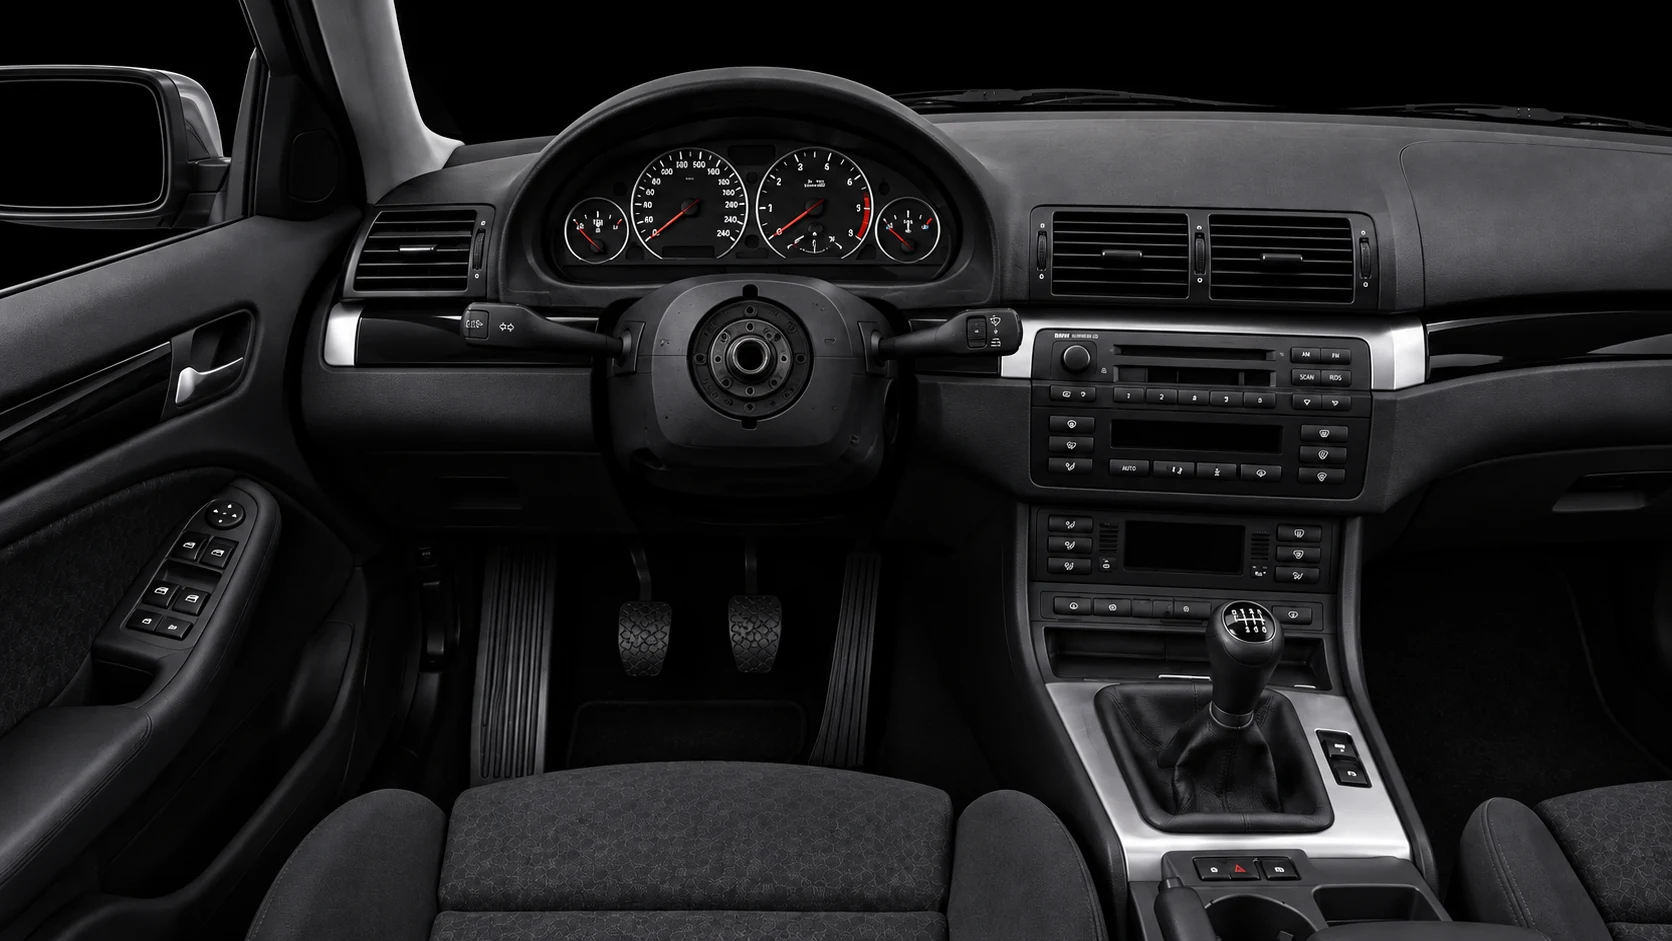
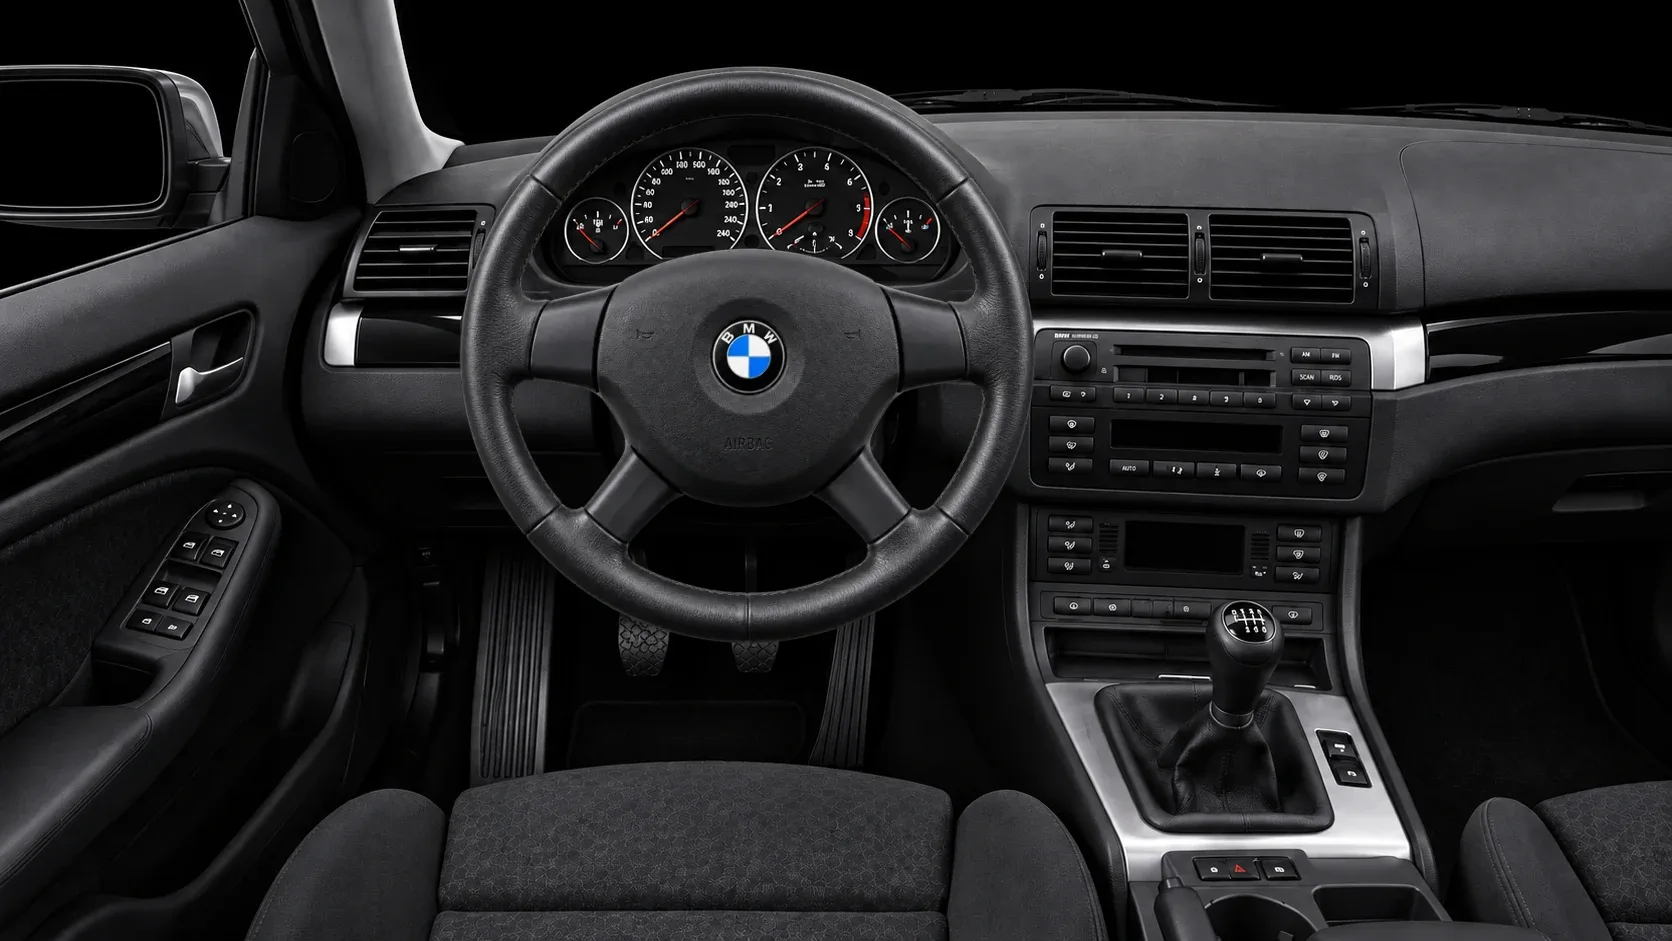
BL-124: the Infotainment picture gets E46BUILD's standard steering wheel (cockpit + standard cut-out at the T-170 geometry, like step 05); copy approved (PO 2026-11-09)
Claude-Session: https://claude.ai/code/session_017FdUL7QsvxXijSWYHcSykp

Changed region(s): [[0.2488, 0.0616, 0.622, 0.678]]

diff --git a/lib/i18n.ts b/lib/i18n.ts
@@ -39,7 +39,7 @@ const en = {
       { key: "bumpers", label: "Bumpers", line: "Standard, M package or M3 bumpers, front and rear, on your body style.", img: "/images/closer-look/e46-bumper-look-front-sedan-touring-m-package.webp", alt: "E46 sedan with the M package front bumper" },
       { key: "seats", label: "Seats", line: "Basic, sport or M3 seats, for your E46.", img: "/images/closer-look/e46-seat-stage-interior-leather.webp", alt: "E46 interior with black leather sport seats" },
       { key: "steering", label: "Steering wheels", line: "Standard, sport, M Sport or M3 steering wheels for your E46.", img: "/images/closer-look/e46-steering-stage-cockpit-m3.webp", alt: "E46 cockpit with an M3 steering wheel" },
-      // BL-124 (PO 2026-11-09): E46BUILD's step 06 (T-278) and its own cockpit stage, until the PO's dash pictures arrive.
+      // BL-124 (PO 2026-11-09): E46BUILD's step 06 (T-278); its cockpit stage with the standard wheel, until the PO's dash pictures arrive.
       { key: "infotainment", label: "Infotainment", line: "BMW factory radio and navigation, or a CarPlay screen made for the E46.", img: "/images/closer-look/e46-infotainment-stage-cockpit.webp", alt: "E46 cockpit with the BMW radio and climate controls in the centre console" },
     ],
     pick: "Parts in E46BUILD", // accessible name of the category tab list

diff --git a/public/images/README.md b/public/images/README.md
@@ -18,15 +18,15 @@ One line per file. Article images live under `public/blog/<slug>/` with their cr
 `closer-look/` (BL-083, "Take a closer look"): E46BUILD pictures (and one PO render), from e46build master (a6c8a8a3; steering
 from 2102a8d3) `apps/web/public/images/…`. PO rule (2026-10-27): every picture shows the part mounted on the car, never on
 its own. All are AI images generated by the PO with ChatGPT (signed C2PA manifests; provenance in e46build
-`docs/research/…`); shown without an "AI illustration" label (PO 2026-10-27). Four are byte-identical copies of E46BUILD
-files (Infotainment since BL-124); the headlight is the PO's own render (converted) and the steering picture a composite (below).
+`docs/research/…`); shown without an "AI illustration" label (PO 2026-10-27). Three are byte-identical copies of E46BUILD
+files; the headlight is the PO's own render (converted) and the steering and infotainment pictures composites (below).
 
 - `closer-look/e46-headlight-look-bi-xenon-late-hires.webp` (1536×1024): PO's AI render, 2026-10-27 (C2PA, trainedAlgorithmicMedia): a post-facelift silver E46, bi-xenon lit with angel eyes, on the car. Source: e46 `docs/images/e46_headlights_shape/Post_High_Res.png` (1536×1024 PNG, SHA-256 a814f65d…), converted to WebP (quality 88, same size, metadata not copied) by `scripts/make-closer-look-headlight.mjs`, which checks the source hash. Replaces the 425 px E46BUILD look (BL-083.3).
 - `closer-look/e46-bumper-look-front-sedan-touring-m-package.webp`: from `categories/bumper/e46-bumper-look-front-sedan-touring-m-package.webp` (960×640). AI illustration by the PO, 2026-10-02 (S2.3). E46BUILD labels it "AI illustration".
 - `closer-look/e46-wheel-stage-side.webp`: from `wheels/e46-wheel-stage-side.webp` (1200×675). AI image by the PO (dark original 2026-10-06, D-002/D-010). E46BUILD's one wheel stage for every body; no label on the stage.
 - `closer-look/e46-seat-stage-interior-leather.webp`: from `seats/e46-seat-stage-interior.webp` (1200×675) at e46build origin/master 8a3bea99 (SHA-256 5643ea34…), byte-identical: E46BUILD's seat stage with black leather Sport seats since T-247.1 (BL-112, PO 2026-11-04: "seats should be leather"; it was the 2026-10-05 cloth picture, D-002). AI image by the PO; no label. New file name so no cache keeps the cloth picture.
 - `closer-look/e46-steering-stage-cockpit-m3.webp` (1672×941): a **composite** of two e46build sources, both AI renders by the PO: the empty cockpit stage `steering/e46-steering-stage-cockpit.webp` (D-002/T-170) and the M3 cut-out `steering/e46-steering-cutout-m3.webp` (T-125; BL-112, PO 2026-11-04: "the wheel should be an M wheel"; it was the M Sport wheel), laid at E46BUILD's own T-170 overlay geometry (rim centre on the column hub at 747, 355 px; rim 575.45 px; cut-out 587×587 px at 454, 62). Made by `scripts/make-closer-look-steering.mjs`, which reads both inputs from e46build (here origin/master 8a3bea99) and checks their SHA-256.
-- `closer-look/e46-infotainment-stage-cockpit.webp` (1672×941): E46BUILD's own cockpit stage `steering/e46-steering-stage-cockpit.webp` (AI render by the PO, the empty cockpit of D-002/T-170), byte-identical copy from e46build origin/master f10e548c (SHA-256 49dd7505…). It is what E46BUILD's step 06 Infotainment shows (T-278, perspective "cockpit"); BL-124 (PO 2026-11-09) uses it until the PO's own dash pictures (I-1…I-5) replace it.
+- `closer-look/e46-infotainment-stage-cockpit.webp` (1672×941): a **composite**, like the steering picture: E46BUILD's empty cockpit stage `steering/e46-steering-stage-cockpit.webp` (the cockpit E46BUILD's step 06 Infotainment shows, T-278) with E46BUILD's STANDARD cut-out `steering/e46-steering-cutout-standard.webp` (SHA-256 737b02be…) at the same T-170 geometry, so it looks like step 05 with the standard wheel picked (BL-124, PO 2026-11-09: "add a steering wheel"). Made by `scripts/make-closer-look-steering.mjs <e46build> origin/master standard` (e46build f10e548c). Both AI renders by the PO; no text on the picture. Until the PO's own dash pictures (I-1…I-5) replace it.
 
 `/shop/*.webp` (BL-084, fan shop): web previews of the PO's nine decal designs (AI renders), from e46 `docs/GTM/decal *.png`
 (1536×1024 PNG). Made by `scripts/make-shop-images.mjs` (source SHA-256 checked): the outer background (black on four, white on
